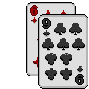
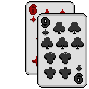
Day Forty Five - Forty Six: - Added Gravity Well Board Symbol for Local Testing

diff --git a/main.py b/main.py
@@ -304,6 +304,8 @@ def draw_window():
             Meta.CURRENT_STATE = ScreenState.GAME_INTRO_TWO
         draw_game_image((NICE_HAND, (89, 89)), (320, 270), 2, True, WHITE, (330, 100),
                         "Nice Hand", "", "Exchange Red and Blue Cards", "with another Player")
+        draw_game_image((GRAVITY_WELL, (89, 89)), (640, 270), 2, True, WHITE, (330, 100),
+                        "Gravity Well", "", "Attempts to pull", "Players towards you")
         previous_button = Button("<", 300, 540, 60, BLUE, ORANGE, MEDIUM_FONT)
         if previous_button.check_click() or Meta.LEFT_ARROW_DOWN:
             Meta.CURRENT_STATE = ScreenState.BOARD_SYMBOLS_GUIDE_ONE
@@ -617,7 +619,7 @@ def draw_window():
                             if not Meta.SUCCEEDED_DEFENCE:
                                 for card in current_player.blueDeck:
                                     if card.cardValue == CardValue.EIGHT:
-                                        Meta.CARD_TO_REMOVE = (current_player.blueDeck, card)
+                                        Meta.CARD_TO_REMOVE = (current_player.blueDeck, card, True)
                                         Meta.DISCARD_PILE.append(card)
                                         Meta.NETWORK.send(("DiscardEvents", Meta.DISCARD_PILE, [(current_player.playerName + " used the " + card.displayName, current_player.playerColour)]))
                                         Meta.SHIELD_ACTIVE = True
@@ -633,7 +635,7 @@ def draw_window():
                             if not Meta.SUCCEEDED_DEFENCE:
                                 for card in current_player.blueDeck:
                                     if card.cardValue == CardValue.EIGHT:
-                                        Meta.CARD_TO_REMOVE = (current_player.blueDeck, card)
+                                        Meta.CARD_TO_REMOVE = (current_player.blueDeck, card, True)
                                         Meta.DISCARD_PILE.append(card)
                                         Meta.NETWORK.send(("DiscardEvents", Meta.DISCARD_PILE, [(current_player.playerName + " used the " + card.displayName, current_player.playerColour)]))
                                         Meta.SHIELD_ACTIVE = True
@@ -647,7 +649,7 @@ def draw_window():
                             if not Meta.SUCCEEDED_DEFENCE:
                                 for card in current_player.blueDeck:
                                     if card.cardValue == CardValue.EIGHT:
-                                        Meta.CARD_TO_REMOVE = (current_player.blueDeck, card)
+                                        Meta.CARD_TO_REMOVE = (current_player.blueDeck, card, True)
                                         Meta.DISCARD_PILE.append(card)
                                         Meta.NETWORK.send(("DiscardEvents", Meta.DISCARD_PILE, [(current_player.playerName + " used the " + card.displayName, current_player.playerColour)]))
                                         Meta.SHIELD_ACTIVE = True
@@ -878,7 +880,7 @@ def draw_window():
                         has_ten = False
                         for card in current_player.blueDeck:
                             if card.cardValue == CardValue.TEN:
-                                Meta.CARD_TO_REMOVE = (current_player.blueDeck, card)
+                                Meta.CARD_TO_REMOVE = (current_player.blueDeck, card, True)
                                 Meta.DISCARD_PILE.append(card)
                                 Meta.NETWORK.send(("DiscardEvents", Meta.DISCARD_PILE, [(current_player.playerName + " used the " + card.displayName, current_player.playerColour)]))
                                 has_ten = True
@@ -1466,6 +1468,116 @@ def draw_window():
                             continue_button = Button("Choose Player", 1680, 600, 60)
                             if continue_button.check_click():
                                 Meta.CHOOSE_PLAYERS = "NiceHand"
+                    elif current_square.symbol == "GravityWell":
+                        draw_text("The other Players will now", SMALL_FONT, BLACK, (1680, 200))
+                        draw_text("be pulled toward you", SMALL_FONT, BLACK, (1680, 230))
+                        draw_text("unless they can't be moved", SMALL_FONT, BLACK, (1680, 260))
+                        continue_button = Button("Continue", 1680, 600, 60)
+                        if continue_button.check_click():
+                            event_data = []
+                            updated_squares = []
+                            discard_pile_changed = False
+                            for player in Meta.PLAYERS:
+                                if player.currentSquare != current_player.currentSquare and check_can_move(player):
+                                    if player.currentSquare > current_player.currentSquare:  # Pull Player Back
+                                        # Remove Player from Previous Square:
+                                        player_to_remove = None
+                                        print("Debug: Player: " + player.playerName)
+                                        for square_player in Meta.BOARD_SQUARES[player.currentSquare].players:
+                                            print("Debug: Player in Square " + str(player.currentSquare) + ": " + square_player.playerName)
+                                            if square_player.playerNumber == player.playerNumber:
+                                                player_to_remove = square_player
+                                        if player_to_remove is None:
+                                            print("No Player to Remove")
+                                        else:
+                                            print("Player to Remove: " + player_to_remove.playerName)
+                                        Meta.BOARD_SQUARES[player.currentSquare].players.remove(player_to_remove)
+                                        # Add Previous Square to Updated Squares:
+                                        square_index = 69
+                                        for i in range(len(updated_squares)):
+                                            if updated_squares[i][1].center == Meta.BOARD_SQUARES[player.currentSquare].center:
+                                                square_index = i
+                                                break
+                                        if square_index != 69:
+                                            updated_squares[square_index] = (player.currentSquare, Meta.BOARD_SQUARES[player.currentSquare])
+                                        else:
+                                            updated_squares.append((player.currentSquare, Meta.BOARD_SQUARES[player.currentSquare]))
+                                        player.currentSquare -= 5  # Move the Player Back
+                                        event_data.append((player.playerName + " was pulled towards " + current_player.playerName, player.playerColour))
+                                        Meta.BOARD_SQUARES[player.currentSquare].players.append(player)  # Adds the Player to the New Square
+                                        # Add New Square to Updated Squares:
+                                        square_index = 69
+                                        for i in range(len(updated_squares)):
+                                            if updated_squares[i][1].center == Meta.BOARD_SQUARES[player.currentSquare].center:
+                                                square_index = i
+                                                break
+                                        if square_index != 69:
+                                            updated_squares[square_index] = (player.currentSquare, Meta.BOARD_SQUARES[player.currentSquare])
+                                        else:
+                                            updated_squares.append((player.currentSquare, Meta.BOARD_SQUARES[player.currentSquare]))
+                                    else:  # Pull Player Forward
+                                        # Remove the Player from Previous Square:
+                                        player_to_remove = None
+                                        print("Debug: Player: " + player.playerName)
+                                        for square_player in Meta.BOARD_SQUARES[player.currentSquare].players:
+                                            print("Debug: Player in Square " + str(
+                                                player.currentSquare) + ": " + square_player.playerName)
+                                            if square_player.playerNumber == player.playerNumber:
+                                                player_to_remove = square_player
+                                        if player_to_remove is None:
+                                            print("No Player to Remove")
+                                        else:
+                                            print("Player to Remove: " + player_to_remove.playerName)
+                                        Meta.BOARD_SQUARES[player.currentSquare].players.remove(player_to_remove)
+                                        # Add Previous Square to Updated Squares:
+                                        square_index = 69
+                                        for i in range(len(updated_squares)):
+                                            if updated_squares[i][1].center == Meta.BOARD_SQUARES[
+                                                player.currentSquare].center:
+                                                square_index = i
+                                                break
+                                        if square_index != 69:
+                                            updated_squares[square_index] = (
+                                            player.currentSquare, Meta.BOARD_SQUARES[player.currentSquare])
+                                        else:
+                                            updated_squares.append(
+                                                (player.currentSquare, Meta.BOARD_SQUARES[player.currentSquare]))
+                                        # Move the Player Forward:
+                                        squares_to_move = 5
+                                        for x in range(1, 5):
+                                            if Meta.BOARD_SQUARES[player.currentSquare + x].hasBarrier:
+                                                has_ten = False
+                                                for card in player.blueDeck:
+                                                    if card.cardValue == CardValue.TEN:
+                                                        Meta.CARD_TO_REMOVE = (player.blueDeck, card, False)
+                                                        Meta.DISCARD_PILE.append(card)
+                                                        event_data.append((player.playerName + " used their " + card.displayName, player.playerColour))
+                                                        discard_pile_changed = True
+                                                        has_ten = True
+                                                        break
+                                                if not has_ten:
+                                                    squares_to_move = x
+                                                    Meta.BOARD_SQUARES[player.currentSquare + x].hasBarrier = False
+                                                    break
+                                            elif Meta.BOARD_SQUARES[player.currentSquare + x].monsterAwake:
+                                                squares_to_move = x
+                                                break
+                                        player.currentSquare += squares_to_move
+                                        # Deals with the New Square:
+                                        Meta.BOARD_SQUARES[player.currentSquare].players.append(player)
+                                        square_index = 69
+                                        for i in range(len(updated_squares)):
+                                            if updated_squares[i][1].center == Meta.BOARD_SQUARES[player.currentSquare].center:
+                                                square_index = i
+                                                break
+                                        if square_index != 69:
+                                            updated_squares[square_index] = (player.currentSquare, Meta.BOARD_SQUARES[player.currentSquare])
+                                        else:
+                                            updated_squares.append((player.currentSquare, Meta.BOARD_SQUARES[player.currentSquare]))
+                            if discard_pile_changed:
+                                Meta.NETWORK.send(("PlayersSquaresDiscardEvents", Meta.PLAYERS, updated_squares, Meta.DISCARD_PILE, event_data))
+                            else:
+                                Meta.NETWORK.send(("PlayersSquaresEvents", Meta.PLAYERS, updated_squares, event_data))
                     elif current_square.symbol is None:
                         Meta.CAN_PROGRESS = True
                     if Meta.CAN_PROGRESS:
@@ -2676,11 +2788,11 @@ def draw_squares():
         if square.symbol is not None:
             if square.symbol == "Monster":
                 if square.monsterHealth > 0:
-                    draw_game_image((ID_TO_SYMBOLS[square.symbol], (89, 89)), square.center, 1)
+                    draw_game_image((ID_TO_SYMBOLS[square.symbol], (89, 89)), (square.center[0] + 1, square.center[1] + 1), 1)
                     draw_text(str(square.monsterHealth) + "hp", TINY_FONT, BLUE,
                               (square.center[0] - 10, square.center[1] + 20), False)
             else:
-                draw_game_image((ID_TO_SYMBOLS[square.symbol], (89, 89)), square.center, 1)
+                draw_game_image((ID_TO_SYMBOLS[square.symbol], (89, 89)), (square.center[0] + 1, square.center[1] + 1), 1)
         if square.hasBarrier:
             if Meta.BOARD_SQUARES[x + 1].center[0] > square.center[0]:
                 barrier_rect = pygame.Rect((square.center[0] + 34, square.center[1] - 39), (5, 79))
@@ -2699,6 +2811,16 @@ def draw_squares():
             player_image = PLAYER_TO_PIECE[square.players[i].playerNumber]
             WINDOW.blit(player_image, ((square.center[0] + PLAYER_TO_POSITION[i][0]) - 14,
                                        (square.center[1] + PLAYER_TO_POSITION[i][1]) - 14))
+
+
+def check_can_move(player):
+    if Meta.BOARD_SQUARES[player.currentSquare].symbol == "GravityWell":
+        return False
+    if Meta.BOARD_SQUARES[player.currentSquare].symbol == "Monster" and Meta.BOARD_SQUARES[player.currentSquare].monsterHealth > 0:
+        return False
+    if player.missNextTurn:
+        return False
+    return True
 
 
 def draw_text(text, font, colour, location, center = True):  # Draws text centered on a location
@@ -3123,7 +3245,8 @@ def main():  # Game Loop
         if Meta.CARD_TO_REMOVE is not None:
             Meta.CARD_TO_REMOVE[0].remove(Meta.CARD_TO_REMOVE[1])
             if Meta.IS_MULTIPLAYER:
-                Meta.NETWORK.send(("Player", Meta.PLAYERS[Meta.CURRENT_PLAYER]))
+                if Meta.CARD_TO_REMOVE[2]:
+                    Meta.NETWORK.send(("Player", Meta.PLAYERS[Meta.CURRENT_PLAYER]))
             Meta.CARD_TO_REMOVE = None
 
 

diff --git a/server.py b/server.py
@@ -208,6 +208,33 @@ def threaded_client(conn, ip):
                     Server.event_to_send = [data[3], Server.client_addresses.copy()]
                     Server.event_to_send[1].remove(ip)
                     data = False
+                elif data[0] == "PlayersSquaresEvents":
+                    print("From " + ip[0] + ", Received: " + str(data))
+                    Server.players = data[1]
+                    Server.players_to_update = Server.client_addresses.copy()
+                    Server.players_to_update.remove(ip)
+                    for square in data[2]:
+                        Server.board_squares[square[0]] = square[1]
+                    Server.board_to_update = Server.client_addresses.copy()
+                    Server.board_to_update.remove(ip)
+                    Server.event_to_send = [data[3], Server.client_addresses.copy()]
+                    Server.event_to_send[1].remove(ip)
+                    data = False
+                elif data[0] == "PlayersSquaresDiscardEvents":
+                    print("From " + ip[0] + ", Received: " + str(data))
+                    Server.players = data[1]
+                    Server.players_to_update = Server.client_addresses.copy()
+                    Server.players_to_update.remove(ip)
+                    for square in data[2]:
+                        Server.board_squares[square[0]] = square[1]
+                    Server.board_to_update = Server.client_addresses.copy()
+                    Server.board_to_update.remove(ip)
+                    Server.discard_pile = data[3]
+                    Server.discards_to_update = Server.client_addresses.copy()
+                    Server.discards_to_update.remove(ip)
+                    Server.event_to_send = [data[4], Server.client_addresses.copy()]
+                    Server.event_to_send[1].remove(ip)
+                    data = False
                 elif data[0] == "DiscardEvents":
                     print("From " + ip[0] + ", Received: " + str(data))
                     Server.discard_pile = data[1]

diff --git a/meta.py b/meta.py
@@ -130,6 +130,7 @@ ROLL_8 = pygame.image.load(os.path.join("Assets", "Symbols", "roll_8.png"))
 BACK_10 = pygame.image.load(os.path.join("Assets", "Symbols", "back_10.png"))
 ROLL_10 = pygame.image.load(os.path.join("Assets", "Symbols", "roll_10.png"))
 NICE_HAND = pygame.image.load(os.path.join("Assets", "Symbols", "nice_hand.png"))
+GRAVITY_WELL = pygame.image.load(os.path.join("Assets", "Symbols", "gravity_well.png"))
 ID_TO_SYMBOLS = {
     "OneBlue": ONE_BLUE,
     "OneRed": ONE_RED,
@@ -146,7 +147,8 @@ ID_TO_SYMBOLS = {
     "Roll8": ROLL_8,
     "Back10": BACK_10,
     "Roll10": ROLL_10,
-    "NiceHand": NICE_HAND
+    "NiceHand": NICE_HAND,
+    "GravityWell": GRAVITY_WELL
 }
 
 # Game Cards
@@ -574,7 +576,7 @@ class Meta:  # Changeable Global Variables
                      Square("DownKey", (910, 777), False, 0, 15), Square("UpKey", (1009, 777), False, 0, 34),
                      Square(None, (1103, 777)),
                      Square("Back8", (1197, 777)), Square("Roll8", (1291, 777)), Square(None, (1385, 777)),
-                     Square(None, (1385, 683)), Square(None, (1291, 683)), Square(None, (1197, 683)),
+                     Square("GravityWell", (1385, 683)), Square(None, (1291, 683)), Square(None, (1197, 683)),
                      Square(None, (1103, 683)), Square(None, (1009, 683)), Square(None, (910, 683)),
                      Square(None, (816, 683)), Square(None, (722, 683)), Square("Back10", (628, 683)),
                      Square("Roll10", (534, 683)), Square(None, (534, 589)), Square(None, (628, 589)),

diff --git a/square.py b/square.py
@@ -2,12 +2,12 @@ import pygame
 
 
 class Square:
-    def __init__(self, square_symbol, center, barrier = False, monster_health = 0, key_location = 0):
-        self.symbol = square_symbol
+    def __init__(self, symbol, center, barrier = False, monster_health = 0, key = 0):
+        self.symbol = symbol
         self.center = center
         self.players = []
         self.hasBarrier = barrier
         self.monsterHealth = monster_health
         self.monsterAwake = False
-        self.keyLocation = key_location
+        self.keyLocation = key
         self.currentRect = pygame.Rect((center[0] - 44, center[1] - 44), (89, 89))

diff --git a/player.py b/player.py
@@ -10,6 +10,7 @@ class Player:
         self.missNextTurn = False
         self.setNextRoll = None
         self.setPlayerRoll = None
+        self.wasPulledOrPushed = False
         self.playerNumber = player_number
         if player_number == 0:
             self.playerColour = BLUE
